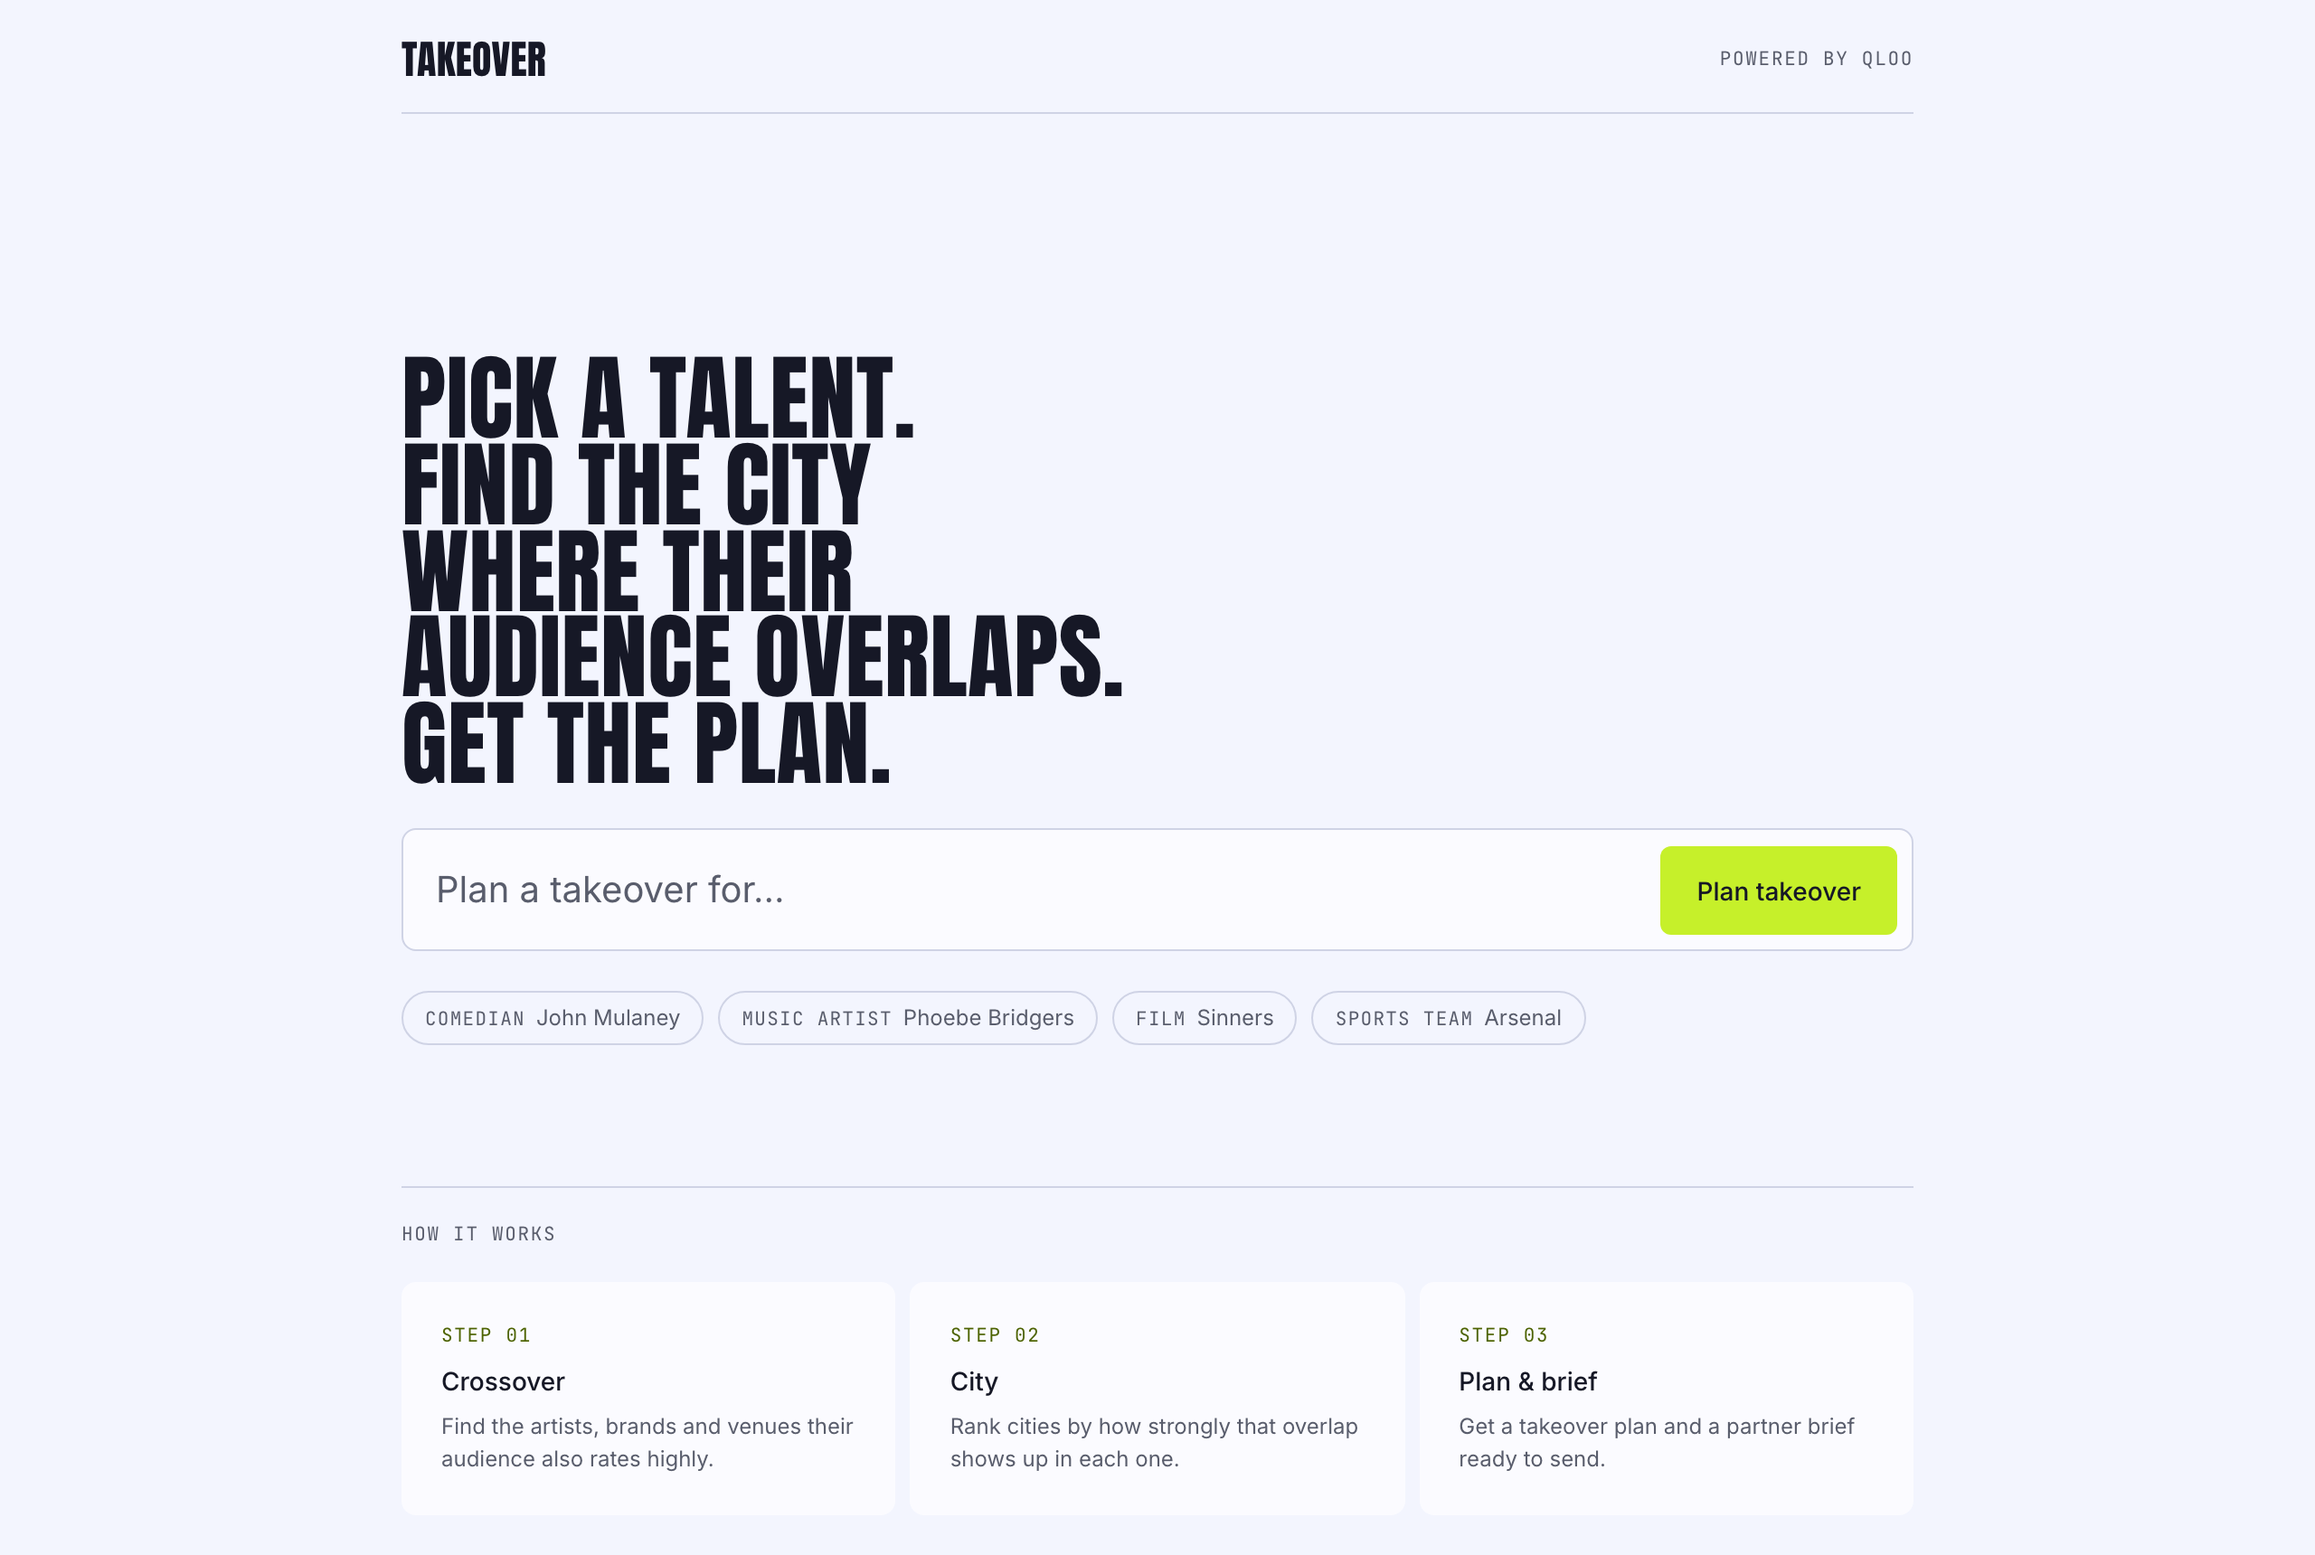
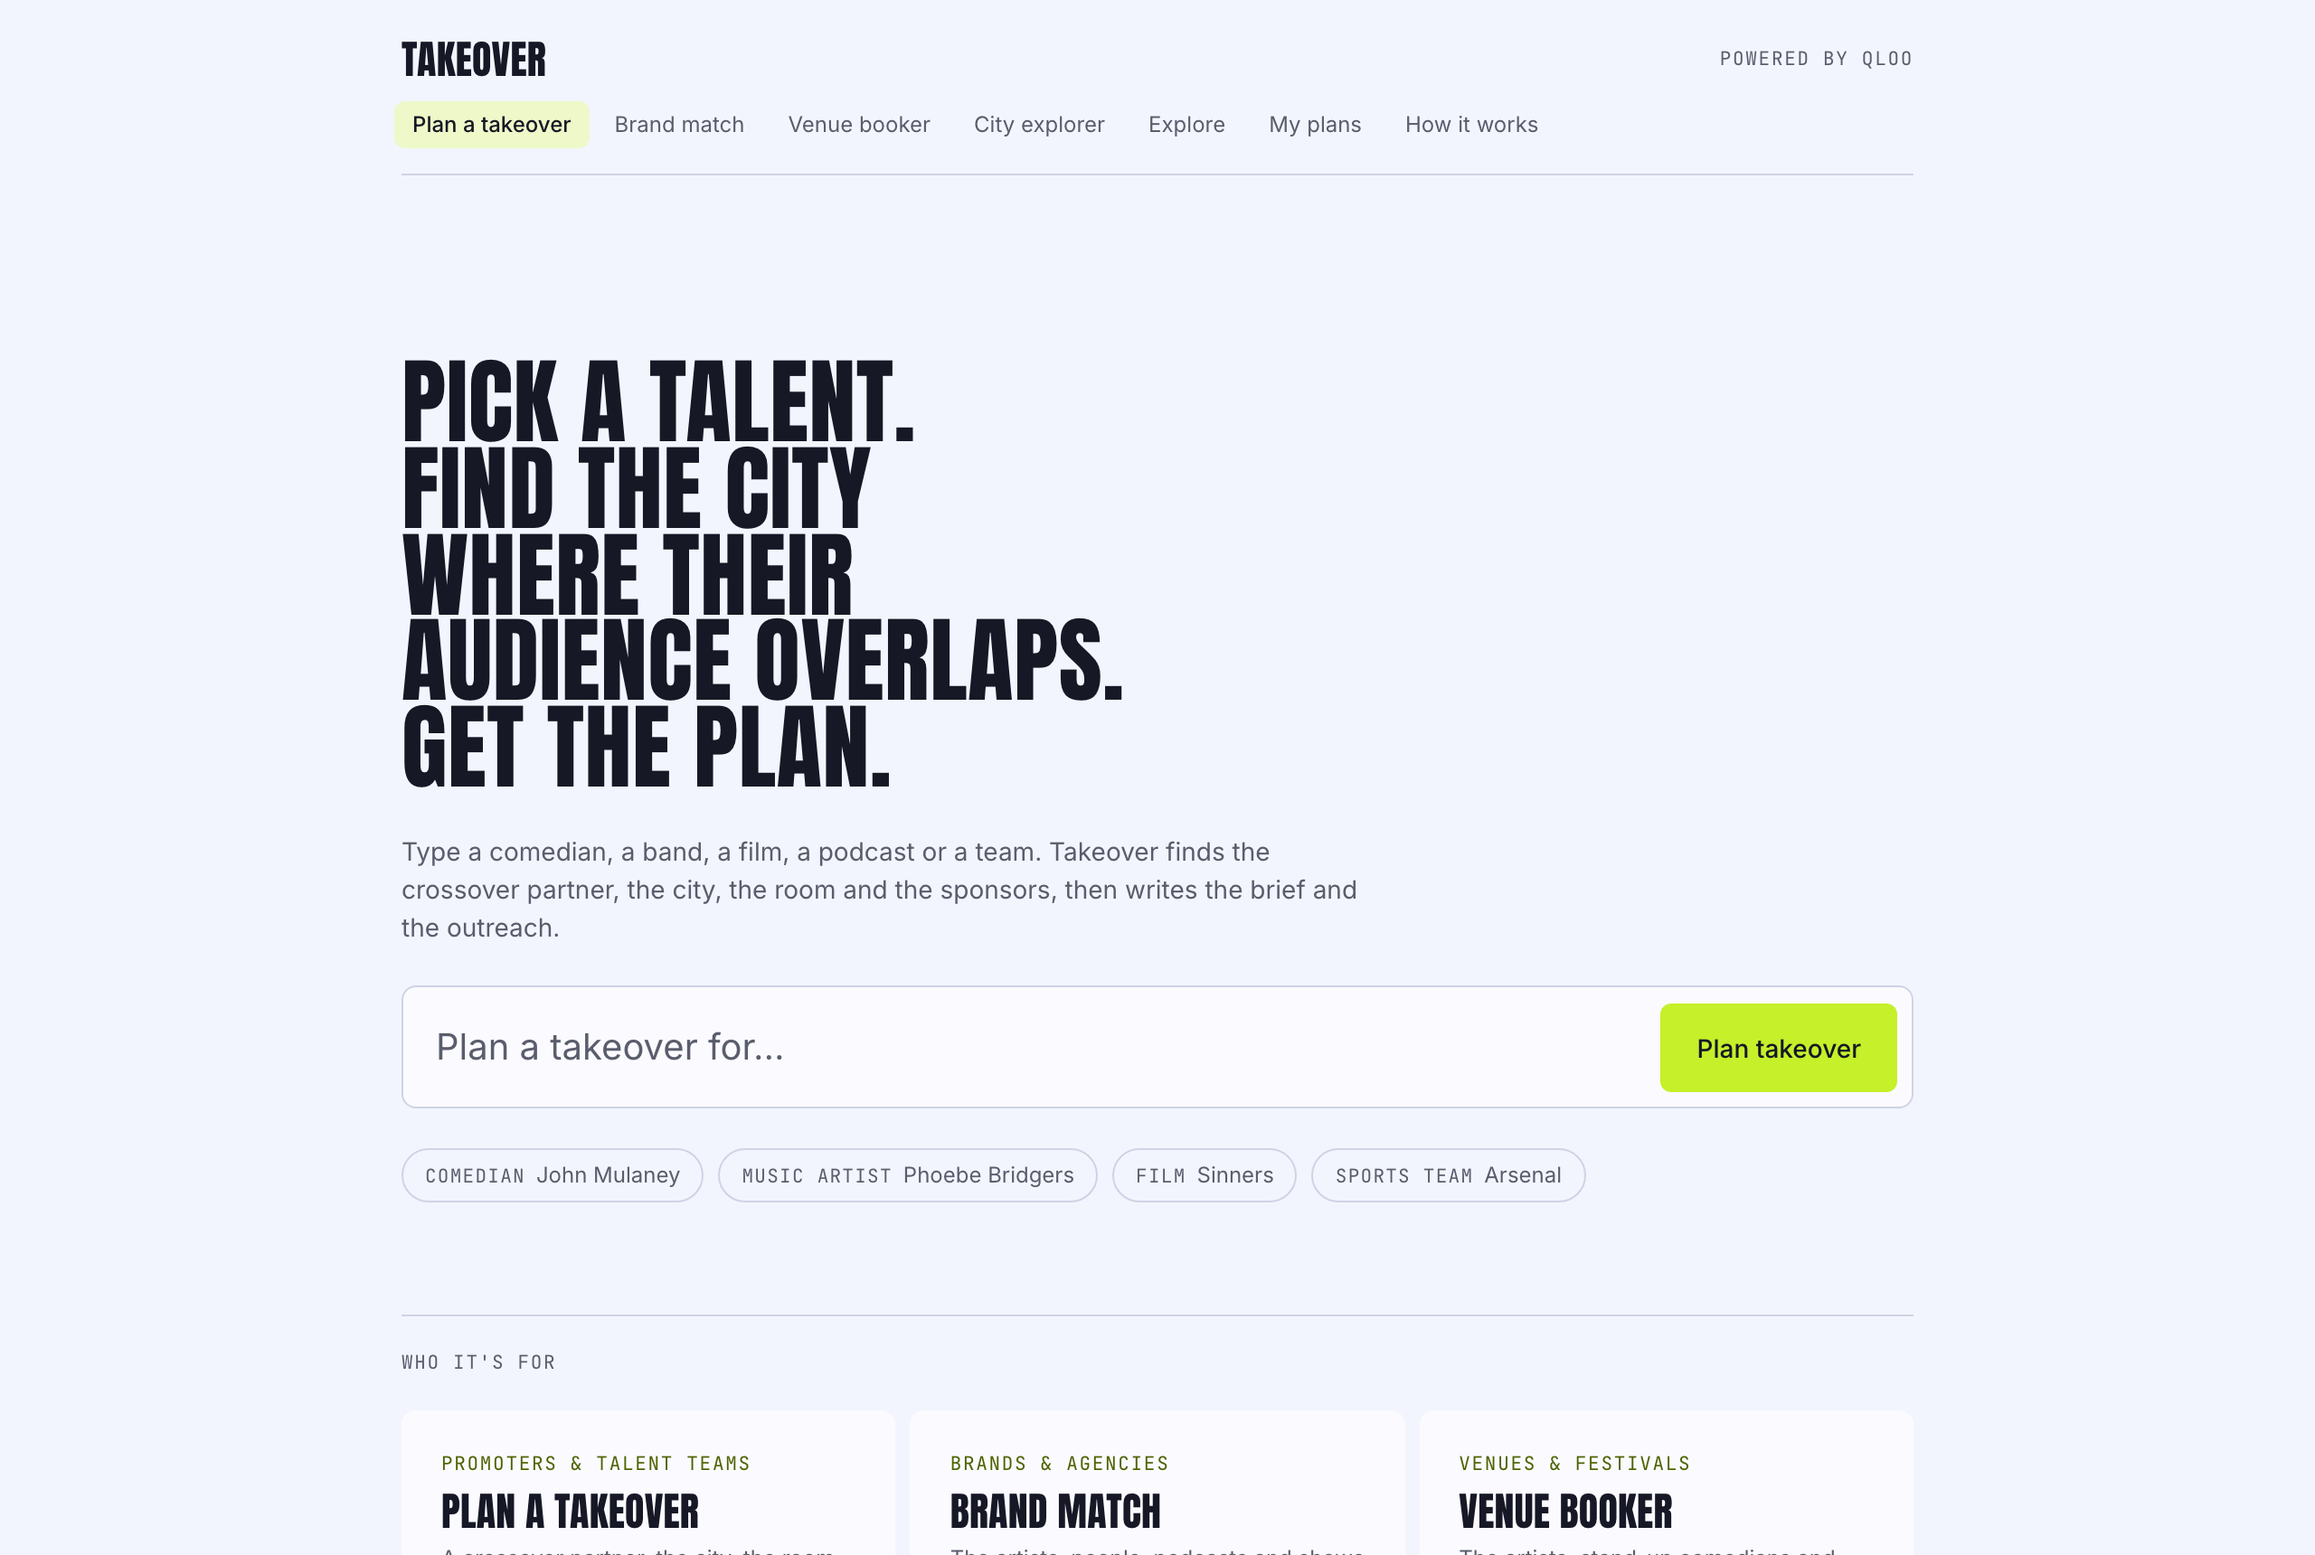
README and screenshots for the new pages; four audience cards in one row

diff --git a/components/landing.tsx b/components/landing.tsx
@@ -116,7 +116,7 @@ export function Landing({ showcase }: { showcase?: ReactNode }) {
 
       <section className="flex flex-col gap-[18px] border-t border-line pt-[18px]">
         <MonoLabel>Who it&apos;s for</MonoLabel>
-        <div className="grid gap-2 [grid-template-columns:repeat(auto-fit,minmax(min(230px,100%),1fr))]">
+        <div className="grid gap-2 [grid-template-columns:repeat(auto-fit,minmax(min(190px,100%),1fr))]">
           {AUDIENCES.map((a) => (
             <Link
               key={a.title}

diff --git a/README.md b/README.md
@@ -1,14 +1,28 @@
 # Takeover
 
-Type any fanbase: a comedian, a band, a film, a podcast, a football club. Takeover finds the
-crossover partner whose fans overlap most, the city where both audiences are strongest, a venue,
-an opener and sponsors, then writes a one-page brief and two outreach drafts.
+Event planning for anyone with a fanbase. Type a comedian, a band, a film, a podcast or a football
+club and Takeover finds the crossover partner whose fans overlap most, the city where both
+audiences are strongest, a venue, an opener and sponsors, then writes a one-page brief and two
+outreach drafts. Brands, venues and tour planners each get their own way in.
 
 Every pick comes from the [Qloo Taste AI API](https://docs.qloo.com/), scored by code you can read
 in `lib/engine/`. The model writes the words. It never produces a number, and anything Qloo can't
 know (capacity, dates, prices, availability) is shown as "to confirm with the promoter".
 
 ![Takeover landing page](docs/screenshots/landing.png)
+
+## Four ways in
+
+| For | Tool | You enter | You get |
+| --- | --- | --- | --- |
+| Promoters & talent teams | **Plan a takeover** (`/`) | A fanbase | Partner, city, venue, opener, sponsors, brief, two emails |
+| Brands & agencies | **Brand match** (`/brand`) | A brand | The artists, people, podcasts and shows its customers over-index on, and its strongest cities |
+| Venues & festivals | **Venue booker** (`/venue`) | A city | The artists, stand-up comedians and podcasts people there over-index on |
+| Tour planners & fan clubs | **City explorer** (`/cities`) | A fanbase | Its strongest cities at home and in three more countries, on one map |
+
+Every result links to a full takeover plan. **Explore** (`/explore`) shows every preloaded plan,
+**My plans** (`/plans`) keeps the plans you made in your browser (no account) and compares any two,
+and **How it works** (`/method`) explains the scoring with the numbers the code uses.
 
 ## What a run looks like
 
@@ -36,6 +50,20 @@ PEN15 and Seattle, and shows why.
 
 ![LLM-only comparison](docs/screenshots/llm-only.png)
 
+### Brand match, Venue booker and City explorer
+
+Patagonia's customers over-index on Alex Honnold, Lord Huron and The Rich Roll Podcast:
+
+![Brand match for Patagonia](docs/screenshots/brand-match.png)
+
+Austin's favourites, ready to book:
+
+![Venue booker for Austin](docs/screenshots/venue-booker.png)
+
+Arsenal's strongest cities in four countries:
+
+![City explorer for Arsenal](docs/screenshots/city-explorer.png)
+
 It works on a phone too.
 
 <img src="docs/screenshots/mobile.png" alt="Run screen on a phone" width="300">
@@ -55,7 +83,8 @@ It works on a phone too.
 Each step has a fallback that says what happened and carries on with the best result, labelled:
 widening to more categories, regional overlap when city data is thin, the nearest city when no
 venue is tagged, finishing by code when the model is unavailable. Hard caps: 25 Qloo calls and 8
-turns per run, 5 live runs per visitor per hour, 120 runs and 2,000,000 model tokens a day.
+turns per run, 5 live runs and 30 lookups per visitor per hour, 120 runs and 2,000,000 model
+tokens a day.
 Preloaded examples replay instantly and count against nothing.
 
 ## Built with
@@ -116,6 +145,9 @@ All values are server-side only; see `.env.example`.
 | --- | --- |
 | `POST /api/plan` | `{query, overrides?}` → a stream of step events (SSE) and the final plan |
 | `POST /api/llm-only` | `{query}` → the same model's answer with no tools or Qloo data |
+| `POST /api/tools/brand` | `{brand, entityId?}` → partner lists and cities for a brand (6 Qloo calls) |
+| `POST /api/tools/venue` | `{city, kinds?}` → artists, comedians and podcasts for a city (3 Qloo calls) |
+| `POST /api/tools/cities` | `{fanbase, entityId?}` → strongest cities in four markets (5 Qloo calls) |
 | `GET /api/health` | Qloo, Redis, the model, today's token use against the budget and the run limits; no secrets |
 
 ## Project layout
@@ -126,6 +158,7 @@ All values are server-side only; see `.env.example`.
 | `lib/engine/` | Scoring: partners, cities, venues, sponsors, tours (pure functions) |
 | `lib/agent/` | The run loop, tools, planners and the prose sanitiser |
 | `lib/llm/` | Model providers (Gemini, Anthropic) and the daily token budget |
+| `lib/tools/` | Brand match, Venue booker and City explorer |
 | `app/`, `components/` | Pages, API routes and UI |
 | `docs/` | Decisions log, Qloo response shapes, tuning notes, test results |
 
